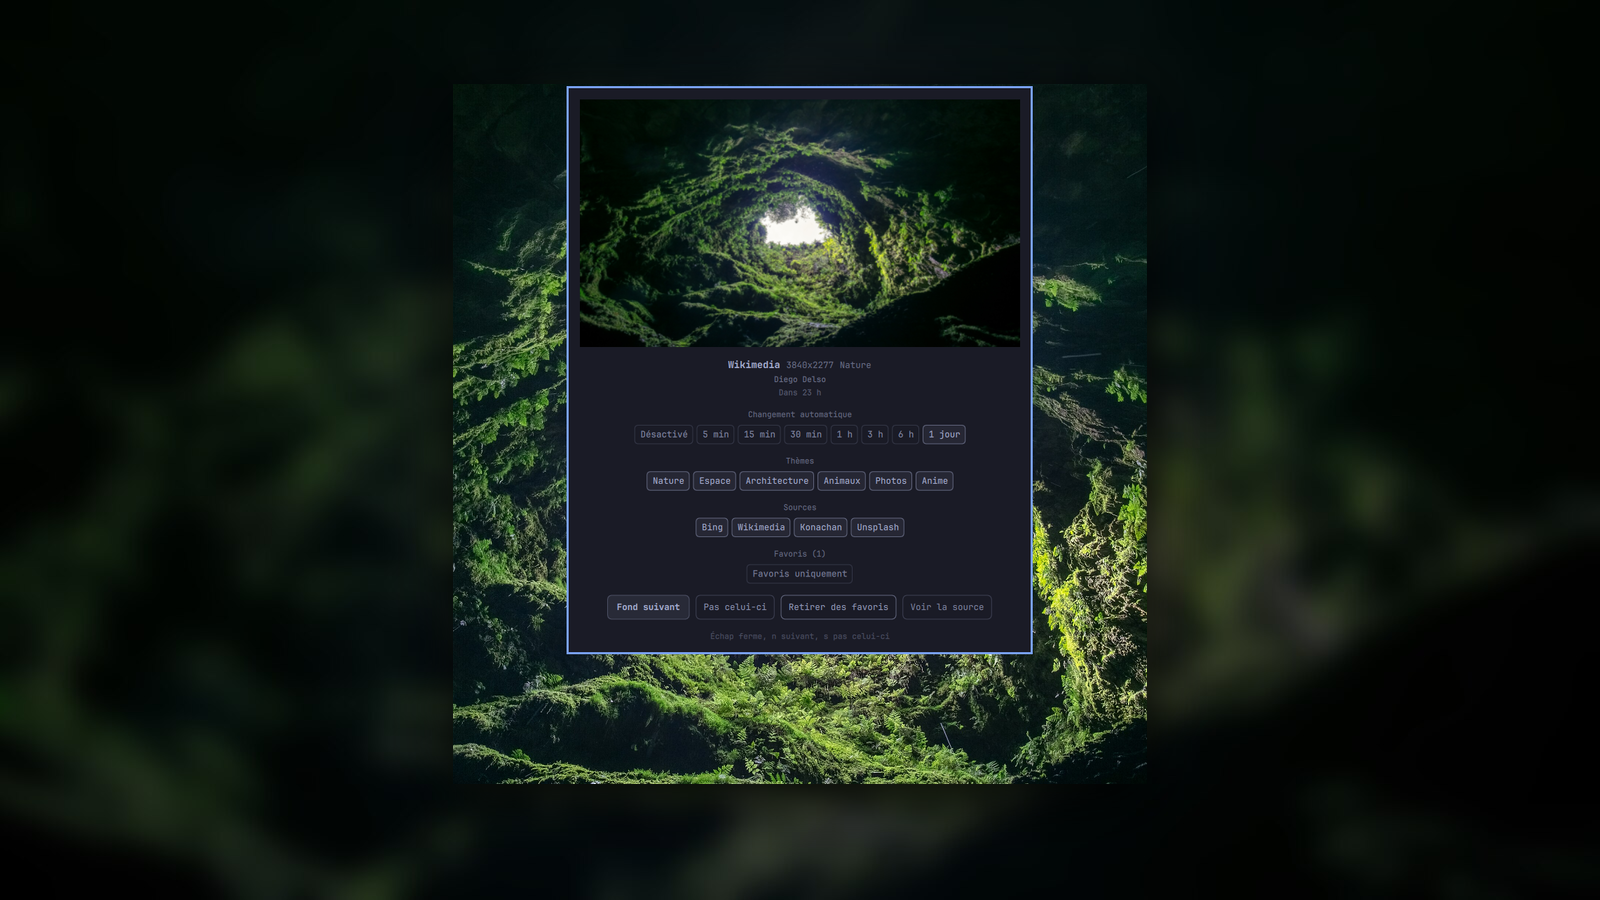
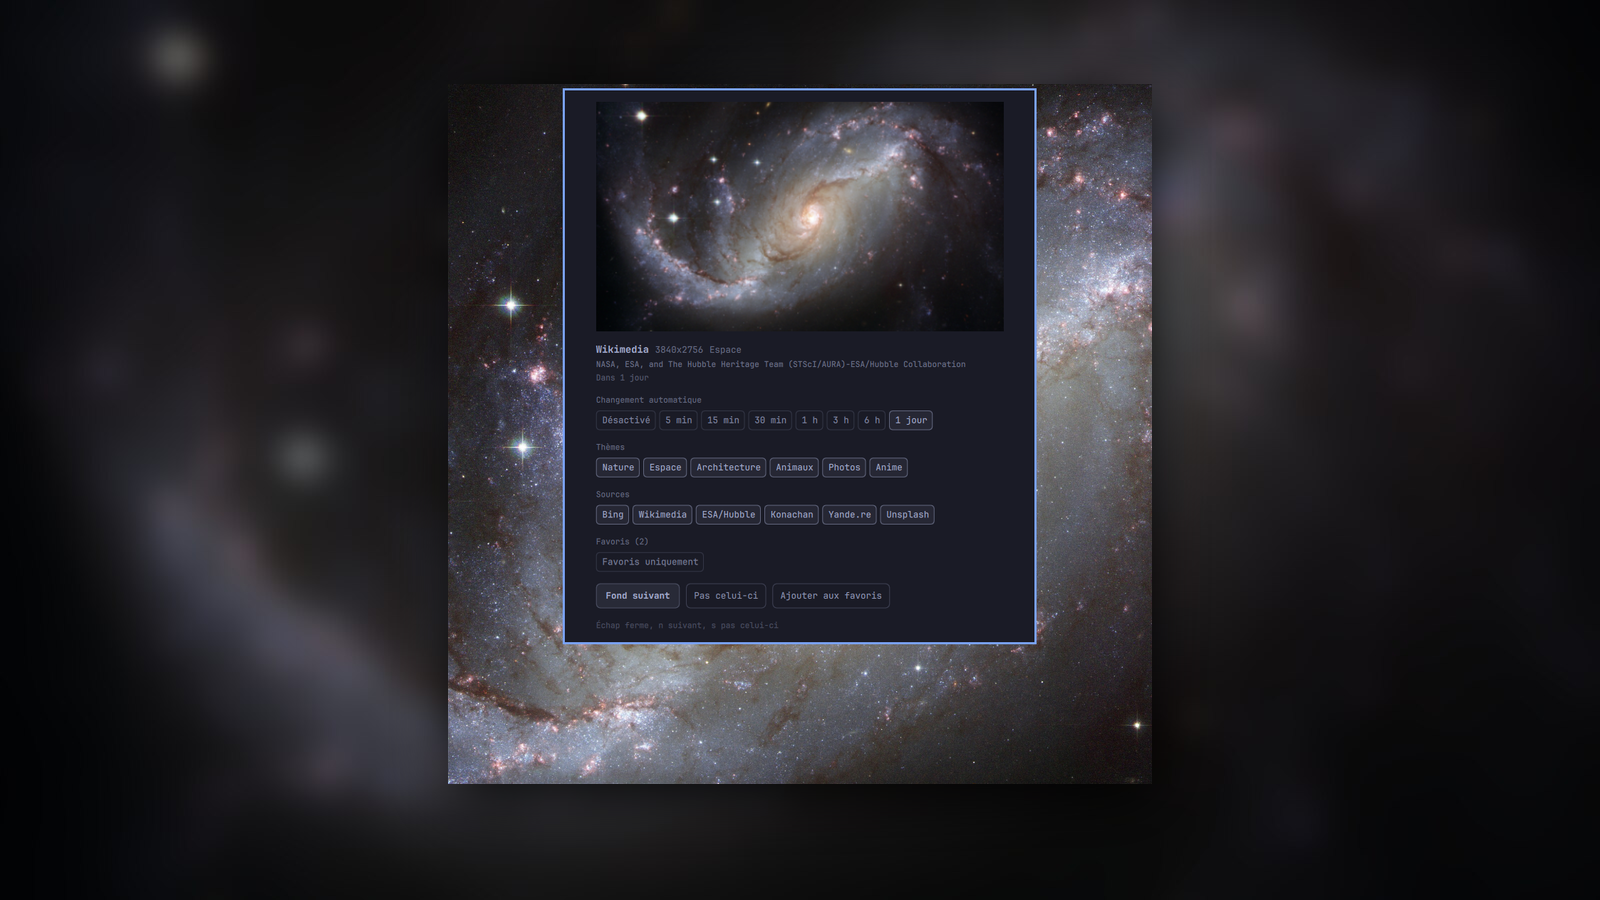
README: six sources, precise themes

diff --git a/README.md b/README.md
@@ -15,28 +15,28 @@ then takes a new one every day.
 
 | | |
 |---|---|
-| **Four sources, no API key** | Bing's picture of the day, Wikimedia Commons featured and quality photography, Konachan's 4K anime art, and Unsplash photographs served through Picsum |
-| **Wallpapers, not random images** | Every candidate has to be at least as large as your largest screen, and shaped like a widescreen desktop. Portrait shots and long panoramas are dropped before anything is downloaded, and the file's real size is measured again after the download |
-| **A theme filter** | Nature, Space, Architecture, Animals, Photos, Anime. A theme that is off is never queried, so nothing from it can reach your screen |
+| **Six sources, no API key** | Bing's picture of the day, Wikimedia Commons featured and quality photography, ESA/Hubble and ESA/Webb telescope imagery, Konachan and Yande.re anime art, and Unsplash photographs served through Picsum |
+| **Wallpapers, not random images** | Every candidate has to be at least as large as your largest screen, and shaped like a widescreen desktop. Portrait shots and long panoramas are dropped before anything is downloaded, the file's real size is measured again after the download, and obvious non-photographs (museum specimens, murals, maps, diagrams) are filtered out by keyword |
+| **A theme filter** | Nature, Space, Architecture, Animals, Photos, Anime. A theme that is off is never queried, so nothing from it can reach your screen, and a source that cannot serve the chosen themes is not queried at all |
 | **"Not this one"** | The picture on screen is blocked and replaced in one click. It will not come back |
 | **Favorites** | One click moves the picture on screen into `~/Pictures/Fresque/Favorites/`. Favorites are never pruned, and "Only favorites" turns the rotation into a loop over what you kept |
 | **Change automatically** | 1 day (default), 6 h, 3 h, 1 h, 30 min, 15 min, 5 min, or off |
 | **A library with a ceiling** | `~/Pictures/Fresque/` holds the images and nothing else. It is trimmed to your limit (30 by default), oldest first, and never drops the wallpaper you are looking at. All the metadata lives in the state directory instead |
-| **Credits** | The panel shows the source, the size, the theme and the author, with a link to the original page |
+| **Credits** | The panel shows the source, the size, the theme and the author |
 
 ## Sources
 
 | Source | What it serves | Licence |
 |---|---|---|
-| Bing | The day's photograph, always, whatever themes are on | Bing, credited to its author |
-| Wikimedia Commons | Featured and quality photography, for the photographic themes | Free licence per image, shown in the panel |
-| Konachan | Anime art at 4K and beyond, for the Anime theme | Fan art, credited to its artist |
+| Bing | The day's photograph. Used only when no theme filter is set, since the picture is chosen by someone else | Bing, credited to its author |
+| Wikimedia Commons | Featured and quality photography, and featured galaxy pictures for Space | Free licence per image, shown in the panel |
+| ESA/Hubble, ESA/Webb | Telescope imagery: nebulae, galaxies, star clusters | ESA/Hubble and NASA, CC BY 4.0 |
+| Konachan, Yande.re | Anime art at 4K and beyond, for the Anime theme | Fan art, credited to its artist |
 | Unsplash via Picsum | Photographs, theme "Photos" | Unsplash License |
 
-Every request to Konachan is pinned to the safe rating and to your screen size,
-so nothing else can come back from it. Bing and Unsplash cannot be filtered by
-theme, because the one is a single daily picture and the other carries no tags.
-The panel dims a source when the themes you picked leave it nothing to serve.
+Every request to Konachan and Yande.re is pinned to the safe rating and to your
+screen size, so nothing else can come back from them. The panel dims a source
+whose themes are all switched off, so it is obvious why it stays quiet.
 
 ## Usage
 
@@ -49,9 +49,9 @@ The panel dims a source when the themes you picked leave it nothing to serve.
 | `f` while the panel is open | Add or remove the current wallpaper from favorites |
 | `Esc` | Closes the panel |
 
-The panel is four rows of choices and four buttons, all centred. The intervals,
-the themes, the sources and the favorites switch all start in the state you
-would have picked anyway.
+The panel is four rows of choices and three buttons. The intervals, the themes,
+the sources and the favorites switch all start in the state you would have
+picked anyway.
 
 The interface follows your system language. English and French are built in, and
 anything else falls back to English.
@@ -74,7 +74,7 @@ fresque config set rotateMinutes 60     # 0, 5, 15, 30, 60, 180, 360, 1440
 fresque config set keepLast 50          # how many images the library may hold
 fresque config set favoritesOnly true   # rotate over the favorites only
 fresque config set themes.space false   # turn a theme off (nature space architecture animals photos anime)
-fresque config set sources.konachan false  # turn a source off (bing wikimedia konachan picsum)
+fresque config set sources.esa false    # turn a source off (bing wikimedia esa konachan yandere picsum)
 ```
 
 The script lives at `~/.config/omarchy/plugins/mitch.fresque/bin/fresque`.
@@ -111,7 +111,7 @@ rm -rf ~/Pictures/Fresque ~/.local/state/fresque ~/.config/omarchy/fresque.json
 
 ## What it does not do
 
-- No custom sources. The four that ship are the ones that can be used without an
+- No custom sources. The six that ship are the ones that can be used without an
   API key and without scraping a website.
 - No separate wallpaper per screen. Omarchy draws one background across every
   screen, so Fresque picks pictures that fit your largest one instead.
